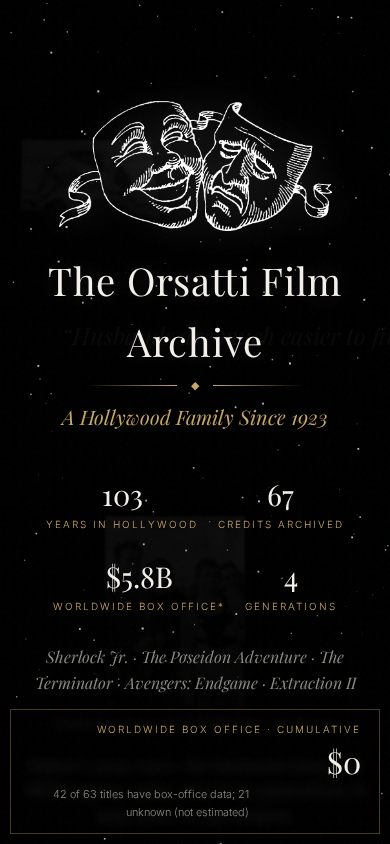
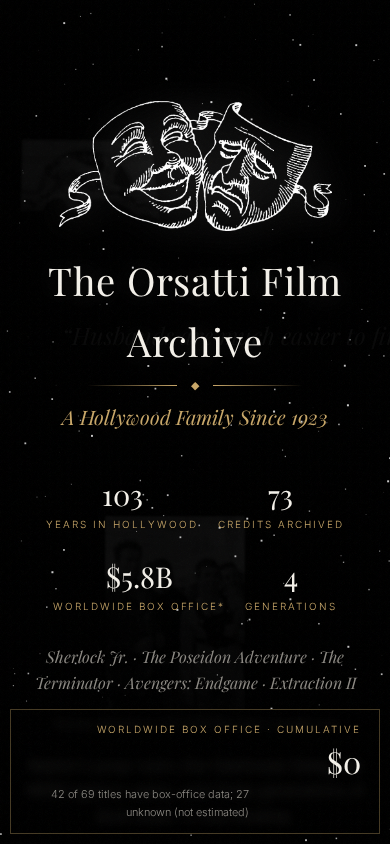
Compact timeline, side cards

Changed region(s): [[0.1231, 0.9242, 0.6462, 0.955], [0.6769, 0.5545, 0.7692, 0.6161]]

diff --git a/app.js b/app.js
@@ -8,13 +8,13 @@ fetch('data.json').then(r=>r.json()).then(D=>{
  $('#foot').textContent=`${D.films.length} titles · ${D.milestones.length} milestones · total known worldwide gross ${money(S.total)}`;
  const nC=D.films.reduce((n,f)=>n+f.credits.length,0),yrs=new Date().getFullYear()-1923;
  $('#stats').innerHTML=[[yrs,'years in Hollywood'],[nC,'credits archived'],['$'+(S.total/1e9).toFixed(1)+'B','worldwide box office*'],[4,'generations']].map(([n,l])=>`<div><b>${n}</b><span>${l}</span></div>`).join('')+`<p class="iconic">Sherlock Jr. · The Poseidon Adventure · The Terminator · Avengers: Endgame · Extraction II</p><p class="src">*Known grosses for ${S.withData} of ${S.films} titles, each counted once</p>`;
- const tl=$('#timeline');let cum=0;
+ const tl=$('#timeline');let cum=0,idx=0;
  Object.keys(years).sort((a,b)=>a-b).forEach(y=>{const g=years[y];g.films.forEach(f=>cum+=f.boxOffice||0);
   const el=document.createElement('section');el.className='yr';el.dataset.cum=cum;
   const reel=g.films.map((f,i)=>`<div class="p" data-i="${i}">${f.poster?`<img src="${esc(f.poster)}" alt="${esc(f.title)} poster" loading="lazy">`:`<div class="np">${esc(f.title)}</div>`}<div>${esc(f.title)}</div></div>`).join('');
   const ents=g.films.flatMap((f,i)=>f.credits.map(c=>`<div class="ent" data-i="${i}"><h3>${esc(f.title)}</h3><div class="who">${esc(c.person)}</div><div class="role">${esc(c.role)}</div></div>`)).join('');
   const facts=g.ms.map(m=>m.kind==='person'?`<div class="fact person">${m.p.photo?`<img src="${esc(m.p.photo)}" alt="${esc(m.p.name)}">`:''}<div><div class="k">Enter · Family Member</div><h3>${esc(m.p.name)}</h3>${m.p.birthName?`<div class="src">Born ${esc(m.p.birthName)}</div>`:''}${m.p.relation?`<div class="rel">${esc(m.p.relation)}</div>`:''}<div class="who">${esc(m.p.years||'')}</div><p>${esc(m.p.note)}</p>${m.p.photo?`<div class="src">Photo${m.p.photoCaption?' ('+esc(m.p.photoCaption)+')':''}: ${link(m.p.photoSource)}</div>`:''}${m.p.imdb?`<div class="src">Profile: ${link(m.p.imdb)}</div>`:''}</div></div>`:`<div class="fact ${m.kind}"><div class="k">${KIND[m.kind]||''}</div><h3>${esc(m.title)}</h3><p>${esc(m.text)}</p>${m.flag?`<span class="flag" title="${esc(m.flag)}">†</span>`:''}<div class="src">Sources: ${m.sources.map(link).join(' · ')}</div></div>`).join('');
-  el.innerHTML=`<div class="yhead"><div class="year">${y}</div></div>${g.films.length?`<div class="reel">${reel}</div><div class="hint">${g.films.length} title${g.films.length>1?'s':''} · click year to pin</div>`:''}<div class="items">${ents}${facts}</div>`;
+  const side=(idx++%2)?'r':'l';el.innerHTML=`<div class="side sl">${side==='l'?facts:''}</div><div class="mid"><div class="yhead"><div class="year">${y}</div></div>${g.films.length?`<div class="reel">${reel}</div>`:''}<div class="items">${ents}</div></div><div class="side sr">${side==='r'?facts:''}</div>`;
   el.querySelector('.yhead').onclick=()=>el.classList.toggle('pinned');
   el.querySelectorAll('[data-i]').forEach(p=>p.onclick=e=>{e.stopPropagation();open(g.films[p.dataset.i])});
   tl.appendChild(el)});

diff --git a/styles.css b/styles.css
@@ -68,3 +68,12 @@ body{background:#000}main,header,footer{position:relative;z-index:1}
 .rel{font-family:'Playfair Display',serif;font-style:italic;color:var(--gold);font-size:.9rem;margin:2px 0}
 
 .flag{border:0!important;padding:0!important;margin:0!important;color:var(--dim)!important;font-size:.8rem!important;cursor:help}
+
+main{max-width:none;padding:30px 24px 100px}
+.yr{margin:18px 0!important;display:grid;grid-template-columns:minmax(0,1fr) minmax(0,560px) minmax(0,1fr);gap:32px;align-items:start}
+.side{display:flex;flex-direction:column;gap:12px;padding-top:4px}.sl{align-items:flex-start}.sr{align-items:flex-end}
+.side .fact{margin:0;max-width:380px;padding:14px 18px;text-align:left}.side .fact h3{font-size:1.1rem}.side .fact p{font-size:.85rem;margin:.4em 0}
+.year{font-size:1.6rem;padding:2px 16px}
+.items{margin-top:10px;gap:6px 70px}.ent h3{font-size:1rem}
+.fact.person img{width:80px;height:100px}
+@media(max-width:1000px){.yr{grid-template-columns:1fr;gap:10px}.side{align-items:stretch;order:3}.mid{order:1}.side .fact{max-width:none}}
